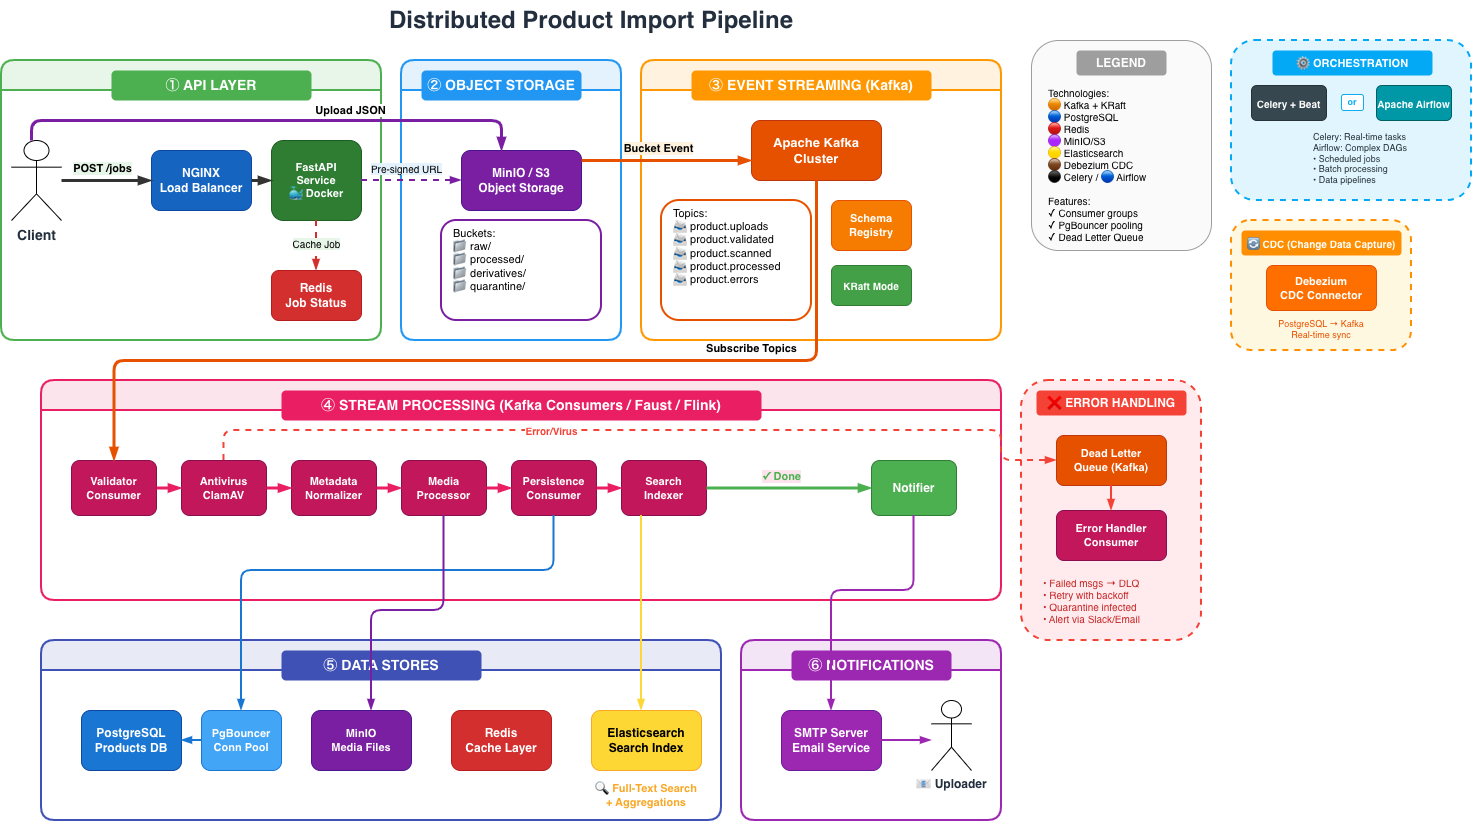
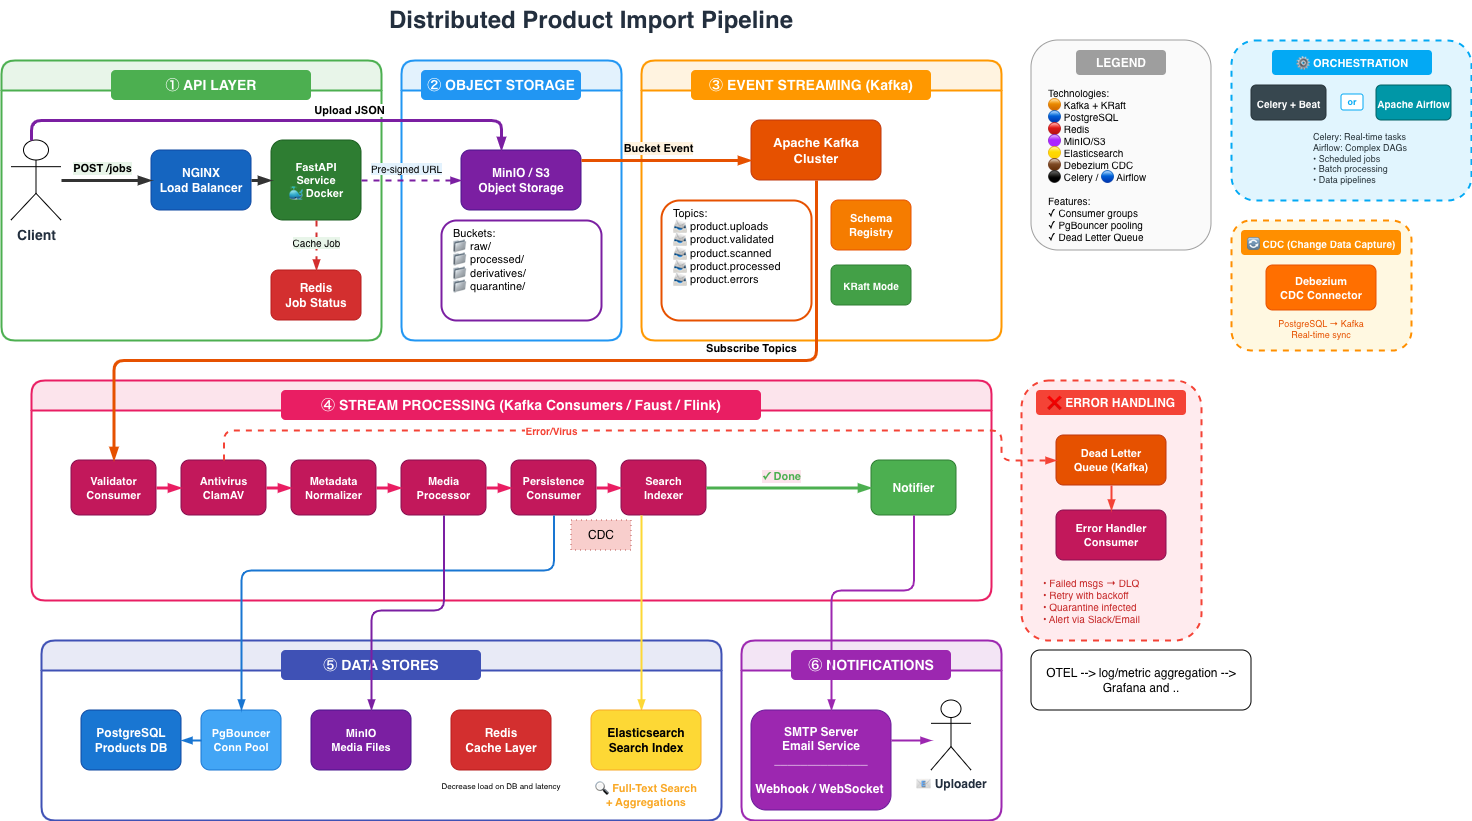
refactor MappingService to improve readability and handle empty values in apply method

diff --git a/src/services/mapping_service.py b/src/services/mapping_service.py
@@ -9,79 +9,82 @@ logger = logging.getLogger(__name__)
 
 
 class SingleKey(NamedTuple):
-	field: str
-	value: str
+    field: str
+    value: str
 
 
 class CompositeKey(NamedTuple):
-	fields: tuple[str, ...]
-	values: tuple[str, ...]
+    fields: tuple[str, ...]
+    values: tuple[str, ...]
 
 
 @dataclass(frozen=True, slots=True)
 class MappingResult:
-	field: str
-	value: str
+    field: str
+    value: str
 
 
 class MappingService:
-	DELIMITER = "|"
+    DELIMITER = "|"
 
-	def __init__(self, file_service: FileService) -> None:
-		self._file_service = file_service
-		self._single: dict[SingleKey, MappingResult] = {}
-		self._composite: dict[CompositeKey, MappingResult] = {}
-		self._mapped_fields: set[str] = set()
+    def __init__(self, file_service: FileService) -> None:
+        self._file_service = file_service
+        self._single: dict[SingleKey, MappingResult] = {}
+        self._composite: dict[CompositeKey, MappingResult] = {}
+        self._mapped_fields: set[str] = set()
 
-	def load(self, path: str | Path) -> None:
-		for row in self._file_service.read_csv(path):
-			src = row.get("source", "").strip()
-			dst = row.get("destination", "").strip()
-			src_type = row.get("source_type", "").strip()
-			dst_type = row.get("destination_type", "").strip()
+    def load(self, path: str | Path) -> None:
+        for row in self._file_service.read_csv(path):
+            src = row.get("source", "").strip()
+            dst = row.get("destination", "").strip()
+            src_type = row.get("source_type", "").strip()
+            dst_type = row.get("destination_type", "").strip()
 
-			if not all([src, dst, src_type, dst_type]):
-				logger.warning(f"Skipping incomplete row: {row}")
-				continue
+            if not all([src, dst, src_type, dst_type]):
+                logger.warning(f"Skipping incomplete row: {row}")
+                continue
 
-			if self.DELIMITER in src_type:
-				self._add_composite(src_type, src, dst_type, dst)
-			else:
-				self._add_single(src_type, src, dst_type, dst)
+            if self.DELIMITER in src_type:
+                self._add_composite(src_type, src, dst_type, dst)
+            else:
+                self._add_single(src_type, src, dst_type, dst)
 
-	def _add_single(self, src_type: str, src: str, dst_type: str, dst: str) -> None:
-		self._single[SingleKey(src_type, src)] = MappingResult(dst_type, dst)
-		self._mapped_fields.add(src_type)
+    def _add_single(self, src_type: str, src: str, dst_type: str, dst: str) -> None:
+        self._single[SingleKey(src_type, src)] = MappingResult(dst_type, dst)
+        self._mapped_fields.add(src_type)
 
-	def _add_composite(self, src_type: str, src: str, dst_type: str, dst: str) -> None:
-		fields = tuple(src_type.split(self.DELIMITER))
-		values = tuple(src.split(self.DELIMITER))
+    def _add_composite(self, src_type: str, src: str, dst_type: str, dst: str) -> None:
+        fields = tuple(src_type.split(self.DELIMITER))
+        values = tuple(src.split(self.DELIMITER))
 
-		if len(fields) != len(values):
-			logger.warning(f"Mismatched composite mapping: {src_type}={src}")
-			return
+        if len(fields) != len(values):
+            logger.warning(f"Mismatched composite mapping: {src_type}={src}")
+            return
 
-		self._composite[CompositeKey(fields, values)] = MappingResult(dst_type, dst)
-		self._mapped_fields.update(fields)
+        self._composite[CompositeKey(fields, values)] = MappingResult(dst_type, dst)
+        self._mapped_fields.update(fields)
 
-	def apply(self, row: dict[str, str]) -> dict[str, str]:
-		result: dict[str, str] = {}
+    def apply(self, row: dict[str, str]) -> dict[str, str]:
+        result: dict[str, str] = {}
 
-		# Apply single mappings
-		for field, value in row.items():
-			key = SingleKey(field, value)
-			if value and key in self._single:
-				mapping = self._single[key]
-				result[mapping.field] = mapping.value
 
-		# Apply composite mappings
-		for key, mapping in self._composite.items():
-			if all(row.get(f, "").strip() == v for f, v in zip(key.fields, key.values, strict=True)):
-				result[mapping.field] = mapping.value
+        for field, value in row.items():
+            if not value:
+                logger.warning(f"Skipping empty value for field: {field}")
+                continue
 
-		# Passthrough unmapped fields
-		for field, value in row.items():
-			if value and field not in self._mapped_fields and field not in result:
-				result[field] = value
+            if mapping := self._single.get(SingleKey(field, value)): # Apply single mappings
+                result[mapping.field] = mapping.value
 
-		return result
+            elif value and field not in self._mapped_fields and field not in result: # Passthrough unmapped fields
+                result[field] = value
+
+        # Apply composite mappings
+        for key, mapping in self._composite.items():
+            if all(
+                row.get(f, "").strip() == v
+                for f, v in zip(key.fields, key.values, strict=True)
+            ):
+                result[mapping.field] = mapping.value
+
+        return result
